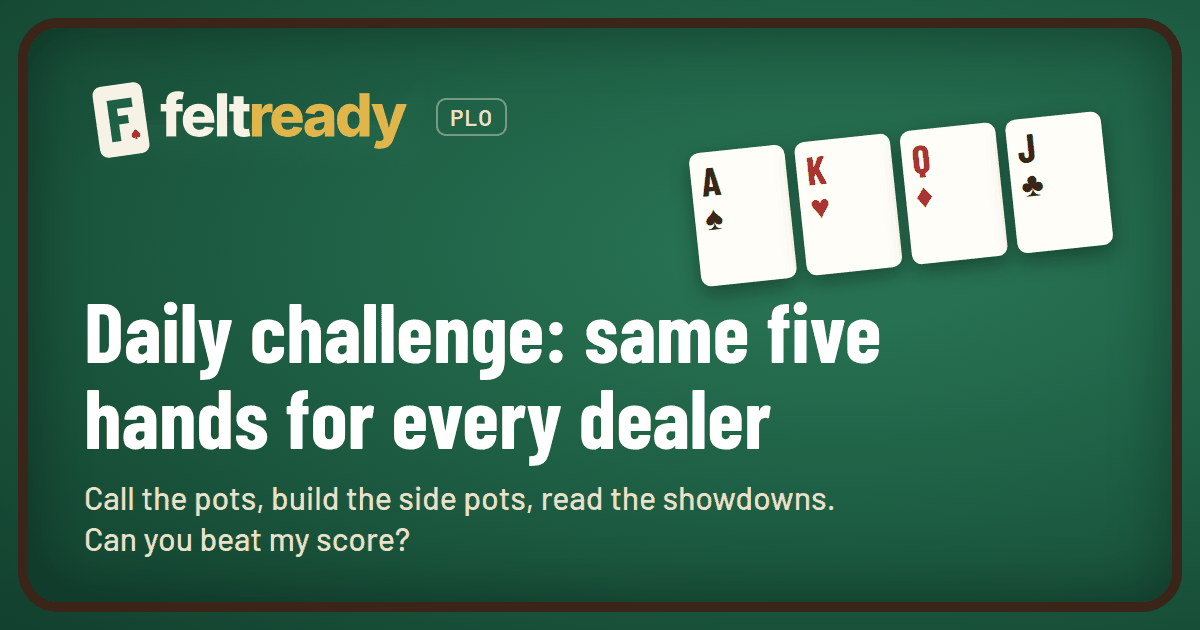
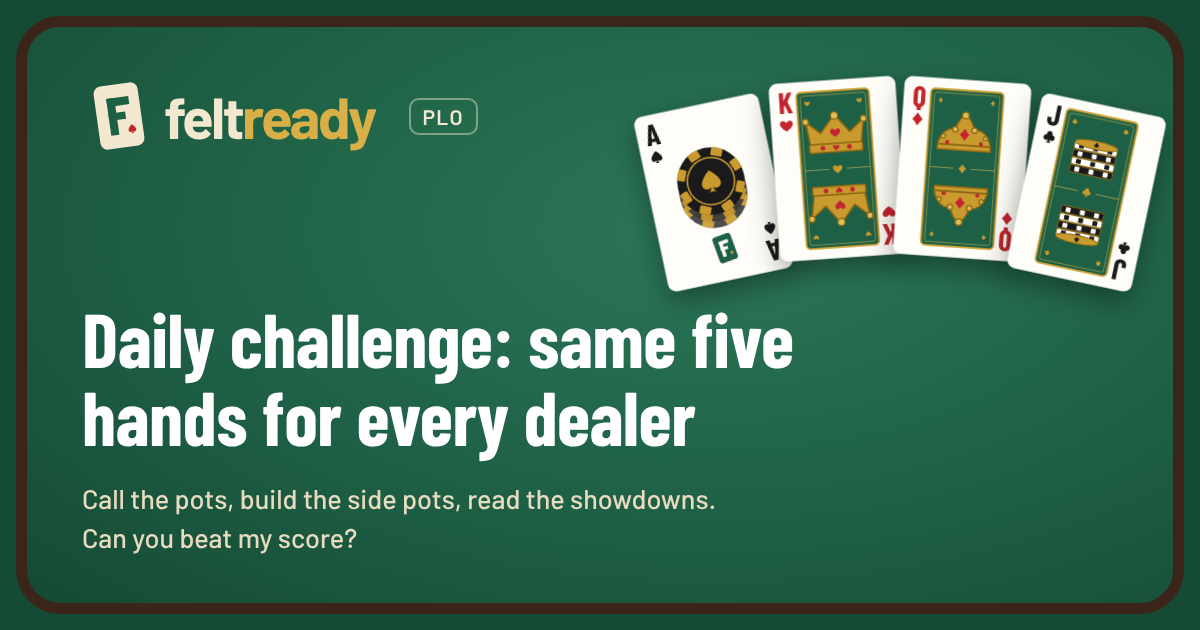
Give the cards real faces: court and ace art, new share images
- src/ui/cardArt.ts draws full card faces as SVG: pip layouts for 2 to 10,
  a chip stack on aces (gold on the ace of spades, with the Card F mark), and
  felt green, gold-framed court cards (K crown, Q tiara, J chip stack).
- In the app, aces and court cards show a small emblem where 2 to 10 show the
  suit. Small and table hole cards are unchanged; the emblem follows the
  card's color, so the four-color deck still works.
- marketing/og/render.ts rebuilds public/og.png and og-daily.png with the new
  cards.

Claude-Session: https://claude.ai/code/session_01JJxHFxBJhzx2FhsLg6Wotv

diff --git a/src/ui/cardArt.ts b/src/ui/cardArt.ts
@@ -1,0 +1,140 @@
+// Card face art as SVG strings: the full 52-card faces (share images, flyers, promo) and the
+// small emblems the app puts on aces and court cards. No DOM access, so node scripts can use it.
+import type { Card, Suit } from '../engine/types.ts';
+import { RC, RN, SUITN } from '../engine/cards.ts';
+
+export const INK = { red: '#C3262E', blk: '#1A1A1A', gold: '#C99B2F', goldHi: '#E2BE5A', goldLo: '#8A6512', cream: '#FFFDF7', felt: '#1E6045' };
+const red = (s: Suit) => s === 'h' || s === 'd';
+export const suitInk = (s: Suit): string => (red(s) ? INK.red : INK.blk);
+
+/** Suit shapes drawn in a 24-unit box. */
+const SUIT_PATH: Record<Suit, string> = {
+  s: 'M12 2.5S3.5 9 3.5 14.2c0 2.8 2.1 4.6 4.4 4.6 1.4 0 2.6-.6 3.3-1.6-.2 1.7-.9 3.2-2.4 4.3h6.4c-1.5-1.1-2.2-2.6-2.4-4.3.7 1 1.9 1.6 3.3 1.6 2.3 0 4.4-1.8 4.4-4.6C20.5 9 12 2.5 12 2.5z',
+  h: 'M12 21s-7.5-4.6-9.6-9.2C.9 8.5 2.8 4.5 6.6 4.5c2.2 0 3.6 1.2 5.4 3.3 1.8-2.1 3.2-3.3 5.4-3.3 3.8 0 5.7 4 4.2 7.3C19.5 16.4 12 21 12 21z',
+  d: 'M12 2c2.4 3.7 5 6.9 8 10-3 3.1-5.6 6.3-8 10-2.4-3.7-5-6.9-8-10 3-3.1 5.6-6.3 8-10z',
+  c: 'M12 2.6a4.4 4.4 0 0 0-4.1 6 4.4 4.4 0 1 0 2.9 7.4c-.2 1.9-.9 3.5-2.5 4.9h7.4c-1.6-1.4-2.3-3-2.5-4.9a4.4 4.4 0 1 0 2.9-7.4 4.4 4.4 0 0 0-4.1-6z',
+};
+
+/** A suit symbol `size` units wide, centered on (x, y), optionally upside down. */
+export function suitShape(s: Suit, x: number, y: number, size: number, fill = suitInk(s), flip = false): string {
+  const k = size / 24;
+  return `<path d="${SUIT_PATH[s]}" fill="${fill}" transform="translate(${x} ${y})${flip ? ' rotate(180)' : ''} scale(${+k.toFixed(4)}) translate(-12 -12)"/>`;
+}
+
+/** A casino chip seen from above, centered on (x, y). */
+function chip(x: number, y: number, r: number, face: string, spot: string, s: Suit | null, symFill: string): string {
+  const spots = Array.from({ length: 8 }, (_, i) =>
+    `<rect x="${-r * .17}" y="${-r}" width="${r * .34}" height="${r * .24}" rx="${r * .04}" fill="${spot}" transform="rotate(${i * 45 + 22.5})"/>`).join('');
+  return `<g transform="translate(${x} ${y})"><circle r="${r}" fill="${face}"/>${spots}`
+    + `<circle r="${r * .7}" fill="none" stroke="${spot}" stroke-width="${r * .045}"/>`
+    + (s ? suitShape(s, 0, 0, r * .8, symFill) : '') + '</g>';
+}
+
+/** A short stack of chips seen from slightly above: darker copies of the top chip peek out below it. */
+function chipStack(x: number, y: number, r: number, face: string, edge: string, spot: string, s: Suit, symFill: string, n = 3): string {
+  let g = '';
+  for (let i = n - 1; i >= 1; i--) g += chip(x, y + i * r * .2, r, edge, spot, null, symFill).replace('<g ', '<g opacity=".9" ');
+  return g + chip(x, y, r, face, spot, s, symFill);
+}
+
+/** Court emblems in a 100 x 64 box centered on (x, y): K a pit boss crown, Q a tiara, J a chip runner's stack. */
+function crown(x: number, y: number, w: number, s: Suit, ink = suitInk(s)): string {
+  const k = w / 100;
+  return `<g transform="translate(${x} ${y}) scale(${k}) translate(-50 -32)">`
+    + `<path d="M8 50 2 10l24 20L50 0l24 30 24-20-6 40z" fill="${INK.gold}" stroke="${INK.goldLo}" stroke-width="2.5" stroke-linejoin="round"/>`
+    + `<rect x="6" y="48" width="88" height="14" rx="2" fill="${INK.gold}" stroke="${INK.goldLo}" stroke-width="2.5"/>`
+    + `<circle cx="2" cy="10" r="5" fill="${INK.goldHi}" stroke="${INK.goldLo}" stroke-width="2"/><circle cx="50" cy="2" r="6" fill="${INK.goldHi}" stroke="${INK.goldLo}" stroke-width="2"/><circle cx="98" cy="10" r="5" fill="${INK.goldHi}" stroke="${INK.goldLo}" stroke-width="2"/>`
+    + `<circle cx="28" cy="55" r="4" fill="${ink}"/><circle cx="72" cy="55" r="4" fill="${ink}"/>`
+    + suitShape(s, 50, 55, 13, ink) + suitShape(s, 50, 30, 20, ink) + '</g>';
+}
+
+function tiara(x: number, y: number, w: number, s: Suit, ink = suitInk(s)): string {
+  const k = w / 100;
+  return `<g transform="translate(${x} ${y}) scale(${k}) translate(-50 -32)">`
+    + `<path d="M6 52C10 34 22 22 34 26c4-14 10-22 16-24 6 2 12 10 16 24 12-4 24 8 28 26z" fill="${INK.gold}" stroke="${INK.goldLo}" stroke-width="2.5" stroke-linejoin="round"/>`
+    + `<path d="M6 52h88v8H6z" fill="${INK.gold}" stroke="${INK.goldLo}" stroke-width="2.5" stroke-linejoin="round"/>`
+    + `${[[34, 26, 4.5], [66, 26, 4.5], [50, 2, 5.5], [15, 38, 3.5], [85, 38, 3.5]].map(([cx, cy, r]) => `<circle cx="${cx}" cy="${cy}" r="${r}" fill="${INK.goldHi}" stroke="${INK.goldLo}" stroke-width="2"/>`).join('')}`
+    + `<circle cx="22" cy="48" r="3.5" fill="${ink}"/><circle cx="78" cy="48" r="3.5" fill="${ink}"/>`
+    + suitShape(s, 50, 34, 24, ink) + '</g>';
+}
+
+function runnerStack(x: number, y: number, w: number, s: Suit, ink = suitInk(s)): string {
+  // Side view of a short stack of chips: alternating suit color and cream, with edge stripes.
+  const k = w / 100;
+  let g = `<g transform="translate(${x} ${y}) scale(${k}) translate(-50 -32)">`;
+  const rows = 4;
+  for (let i = 0; i < rows; i++) {
+    const yy = 50 - i * 13, face = i % 2 ? INK.cream : ink, mark = i % 2 ? ink : INK.cream;
+    g += `<rect x="14" y="${yy}" width="72" height="12" rx="3" fill="${face}" stroke="${INK.goldLo}" stroke-width="1.6"/>`;
+    for (const mx of [22, 46, 70]) g += `<rect x="${mx}" y="${yy + 2}" width="8" height="8" rx="1" fill="${mark}"/>`;
+  }
+  return g + `<ellipse cx="50" cy="11" rx="36" ry="7" fill="${INK.gold}" stroke="${INK.goldLo}" stroke-width="1.6"/>` + suitShape(s, 50, 11, 11, ink) + '</g>';
+}
+
+const COURT: Record<number, typeof crown> = { 11: runnerStack, 12: tiara, 13: crown };
+
+/** Small art the app shows in a card's corner for aces and court cards (24-unit box). Empty for 2 to 10.
+ *  Pass `currentColor` as `ink` to follow the card's CSS color (four-color deck). */
+export function emblemSVG(c: Card, ink = suitInk(c.s)): string {
+  if (c.r === 14) {
+    const sp = c.s === 's';
+    return `<svg viewBox="0 0 24 24" aria-hidden="true">${chip(12, 12, 11.5, ink, sp ? INK.gold : INK.cream, c.s, sp ? INK.gold : INK.cream)}</svg>`;
+  }
+  const f = COURT[c.r];
+  return f ? `<svg viewBox="0 0 24 24" aria-hidden="true">${f(12, 12, 24, c.s, ink)}</svg>` : '';
+}
+
+/** Where the pips go on 2 to 10, in a 250 x 350 card: [x, y], upside down below the middle. */
+const L = 82, M = 125, R = 168, T = 80, B = 270, MID = 175;
+const q1 = T + (B - T) / 3, q2 = T + 2 * (B - T) / 3;
+const PIPS: Record<number, [number, number][]> = {
+  2: [[M, T], [M, B]],
+  3: [[M, T], [M, MID], [M, B]],
+  4: [[L, T], [R, T], [L, B], [R, B]],
+  5: [[L, T], [R, T], [M, MID], [L, B], [R, B]],
+  6: [[L, T], [R, T], [L, MID], [R, MID], [L, B], [R, B]],
+  7: [[L, T], [R, T], [M, (T + MID) / 2], [L, MID], [R, MID], [L, B], [R, B]],
+  8: [[L, T], [R, T], [M, (T + MID) / 2], [L, MID], [R, MID], [M, (MID + B) / 2], [L, B], [R, B]],
+  9: [[L, T], [R, T], [L, q1], [R, q1], [M, MID], [L, q2], [R, q2], [L, B], [R, B]],
+  10: [[L, T], [R, T], [M, (T + q1) / 2], [L, q1], [R, q1], [L, q2], [R, q2], [M, (q2 + B) / 2], [L, B], [R, B]],
+};
+
+const FONT = `'Barlow Condensed','Arial Narrow','Roboto Condensed',sans-serif`;
+
+/** The FeltReady "Card F" mark in a 100-unit box (cream card, green F, gold spade). */
+export function logoMark(x: number, y: number, size: number, card = INK.felt, ink = INK.cream, spade = INK.gold): string {
+  const k = size / 100;
+  return `<g transform="translate(${x} ${y}) scale(${k}) translate(-50 -50) rotate(-8 50 50)"><rect x="20" y="7" width="60" height="86" rx="10" fill="${card}"/>`
+    + `<rect x="36" y="25" width="11" height="50" fill="${ink}"/><rect x="36" y="25" width="30" height="11" fill="${ink}"/><rect x="36" y="45" width="23" height="10" fill="${ink}"/>`
+    + `<path d="${SUIT_PATH.s}" fill="${spade}" transform="translate(58 62) scale(0.62)"/></g>`;
+}
+
+export interface FaceOpts { border?: boolean; radius?: number }
+
+/** A complete card face as an SVG, 250 x 350 units (poker size). */
+export function cardSVG(c: Card, o: FaceOpts = {}): string {
+  const ink = suitInk(c.s), rad = o.radius ?? 16;
+  const idx = (flip: boolean) => `<g${flip ? ' transform="rotate(180 125 175)"' : ''}>`
+    + `<text x="31" y="60" text-anchor="middle" font-family="${FONT}" font-weight="700" font-size="58" letter-spacing="-2" fill="${ink}">${RC(c.r)}</text>`
+    + suitShape(c.s, 31, 84, 30, ink) + '</g>';
+  let art = '';
+  if (c.r <= 10) {
+    art = PIPS[c.r].map(([x, y]) => suitShape(c.s, x, y, 54, ink, y > MID)).join('');
+  } else if (c.r === 14) {
+    const sp = c.s === 's';
+    art = chipStack(125, 152, 66, ink, red(c.s) ? '#8E1A20' : '#3B3B3B', sp ? INK.gold : INK.cream, c.s, sp ? INK.gold : INK.cream)
+      + (sp ? logoMark(125, 286, 62) : '');
+  } else {
+    // Court: a felt green panel in a gold frame, double ended like a classic deck.
+    const half = COURT[c.r](125, 106, 118, c.s);
+    art = `<rect x="54" y="22" width="142" height="306" rx="8" fill="${INK.felt}" stroke="${INK.gold}" stroke-width="3.5"/>`
+      + `<rect x="61" y="29" width="128" height="292" rx="5" fill="none" stroke="${INK.goldHi}" stroke-width="1.2" opacity=".8"/>`
+      + `<path d="M61 175h46M143 175h46" stroke="${INK.goldHi}" stroke-width="1.4" opacity=".8"/>`
+      + suitShape(c.s, 125, 175, 22, INK.gold)
+      + [[74, 44, 0], [176, 44, 0], [74, 306, 1], [176, 306, 1]].map(([x, y, f]) => suitShape(c.s, x, y, 13, INK.gold, !!f)).join('')
+      + half + `<g transform="rotate(180 125 175)">${half}</g>`;
+  }
+  const edge = o.border === false ? '' : ` stroke="#CFC7B4" stroke-width="2"`;
+  return `<svg xmlns="http://www.w3.org/2000/svg" viewBox="0 0 250 350" role="img" aria-label="${RN[c.r]} of ${SUITN[c.s]}">`
+    + `<rect x="1" y="1" width="248" height="348" rx="${rad}" fill="${INK.cream}"${edge}/>${art}${idx(false)}${idx(true)}</svg>`;
+}

diff --git a/marketing/og/render.ts b/marketing/og/render.ts
@@ -1,0 +1,47 @@
+// Builds the link preview images (public/og.png, public/og-daily.png) from the card art in
+// src/ui/cardArt.ts, so the share cards match the app. Needs Chrome and the Barlow fonts installed.
+//   npx tsx marketing/og/render.ts            (CHROME=/path/to/chrome to pick the browser)
+import { execFileSync } from 'node:child_process';
+import { mkdirSync, writeFileSync } from 'node:fs';
+import { dirname, join, resolve } from 'node:path';
+import { fileURLToPath } from 'node:url';
+import { cardSVG, logoMark, INK } from '../../src/ui/cardArt.ts';
+import type { Card } from '../../src/engine/types.ts';
+
+const root = resolve(dirname(fileURLToPath(import.meta.url)), '../..');
+const out = join(root, 'marketing/og/out');
+const CHROME = process.env.CHROME || 'google-chrome';
+
+const HAND: Card[] = [{ r: 14, s: 's' }, { r: 13, s: 'h' }, { r: 12, s: 'd' }, { r: 11, s: 'c' }];
+const FAN = [[-12, 0, 26], [-4, 112, 4], [4, 224, 4], [12, 336, 26]]; // [rotate, left, top]
+
+const page = (title: string, sub: string): string => `<!doctype html><html><head><meta charset="utf-8"><style>
+*{box-sizing:border-box}body{margin:0;width:1200px;height:630px;background:#154A34;font-family:Barlow,sans-serif}
+.felt{position:absolute;inset:16px;border-radius:44px;border:11px solid #3A2518;background:radial-gradient(ellipse at 60% 35%,#2B7757 0%,#1E6045 55%,#154A34 100%);overflow:hidden}
+.brand{position:absolute;left:55px;top:52px;display:flex;align-items:center;gap:8px}
+.wm{font-weight:700;font-size:58px;letter-spacing:-.045em;line-height:1}.wm b{font-weight:700;color:#D9B048}.wm span{color:#F2E8D0}
+.pill{margin-left:26px;border:2px solid rgba(242,232,208,.45);border-radius:10px;padding:4px 12px;font:600 21px Barlow;letter-spacing:.06em;color:#F2E8D0}
+.fan{position:absolute;left:641px;top:48px;width:500px;height:260px}
+.fan div{position:absolute;width:128px;filter:drop-shadow(0 10px 14px rgba(0,0,0,.38));transform-origin:50% 100%}
+.fan svg{display:block;width:100%}
+h1{position:absolute;left:55px;top:272px;margin:0;width:800px;font:700 76px/1.02 'Barlow Condensed';color:#fff;letter-spacing:-.005em}
+p{position:absolute;left:55px;top:452px;margin:0;width:800px;font:500 27px/1.45 Barlow;color:#E8DCC0}
+</style></head><body><div class="felt">
+<div class="brand"><svg width="74" height="74" viewBox="0 0 100 100">${logoMark(50, 50, 100, '#F2E8D0', INK.felt, INK.red)}</svg>
+<div class="wm"><span>felt</span><b>ready</b></div><div class="pill">PLO</div></div>
+<div class="fan">${HAND.map((c, i) => `<div style="left:${FAN[i][1]}px;top:${FAN[i][2]}px;transform:rotate(${FAN[i][0]}deg)">${cardSVG(c, { border: false })}</div>`).join('')}</div>
+<h1>${title}</h1><p>${sub}</p></div></body></html>`;
+
+const IMAGES: [string, string, string][] = [
+  ['og', 'Deal pot limit Omaha like you’re in the box', 'Call pot raises, build side pots, and read showdowns on a live table. Free dealer training.'],
+  ['og-daily', 'Daily challenge: same five hands for every dealer', 'Call the pots, build the side pots, read the showdowns.<br>Can you beat my score?'],
+];
+
+mkdirSync(out, { recursive: true });
+for (const [name, title, sub] of IMAGES) {
+  const html = join(out, `${name}.html`);
+  writeFileSync(html, page(title, sub));
+  execFileSync(CHROME, ['--headless', '--no-sandbox', '--disable-gpu', '--hide-scrollbars', '--window-size=1200,630',
+    `--screenshot=${join(root, 'public', name + '.png')}`, `file://${html}`], { stdio: 'ignore' });
+  console.log(`public/${name}.png`);
+}

diff --git a/src/ui/cards.ts b/src/ui/cards.ts
@@ -1,9 +1,12 @@
 // HTML for cards and chip stacks.
 import type { Card } from '../engine/types.ts';
 import { RC, RN, SUITN, SYM } from '../engine/cards.ts';
+import { emblemSVG } from './cardArt.ts';
 
+// Aces and court cards show a small emblem (chip, crown, tiara, chip stack) where 2 to 10 show the suit.
 const face = (c: Card): string =>
-  `<span class="ix"><b>${RC(c.r)}</b><i>${SYM[c.s]}</i></span><span class="pip" aria-hidden="true">${SYM[c.s]}</span>`;
+  `<span class="ix"><b>${RC(c.r)}</b><i>${SYM[c.s]}</i></span>`
+  + (c.r > 10 ? `<span class="pip emb">${emblemSVG(c, 'currentColor')}</span>` : `<span class="pip" aria-hidden="true">${SYM[c.s]}</span>`);
 
 export const cardHTML = (c: Card, cls = '', attrs = ''): string =>
   `<span class="card ${cls} s-${c.s}" ${attrs} role="img" aria-label="${RN[c.r]} of ${SUITN[c.s]}">${face(c)}</span>`;

diff --git a/src/styles/cards.css b/src/styles/cards.css
@@ -5,6 +5,8 @@
 .card .ix b{font-size:calc(var(--w)*.42);font-weight:700;letter-spacing:-.04em}
 .card .ix i{font-style:normal;font-size:calc(var(--w)*.3);margin-top:1px}
 .card .pip{position:absolute;right:8%;bottom:4%;font-size:calc(var(--w)*.56);line-height:1}
+.card .pip.emb{right:5%;bottom:4%;width:calc(var(--w)*.6);height:calc(var(--w)*.6)}
+.card .pip.emb svg{display:block;width:100%;height:100%}
 .card.xs,.card.sm{box-shadow:none}
 .card.xs .pip,.card.sm .pip{display:none}
 .card.xs .ix,.card.sm .ix{left:0;right:0;top:50%;transform:translateY(-50%)}
